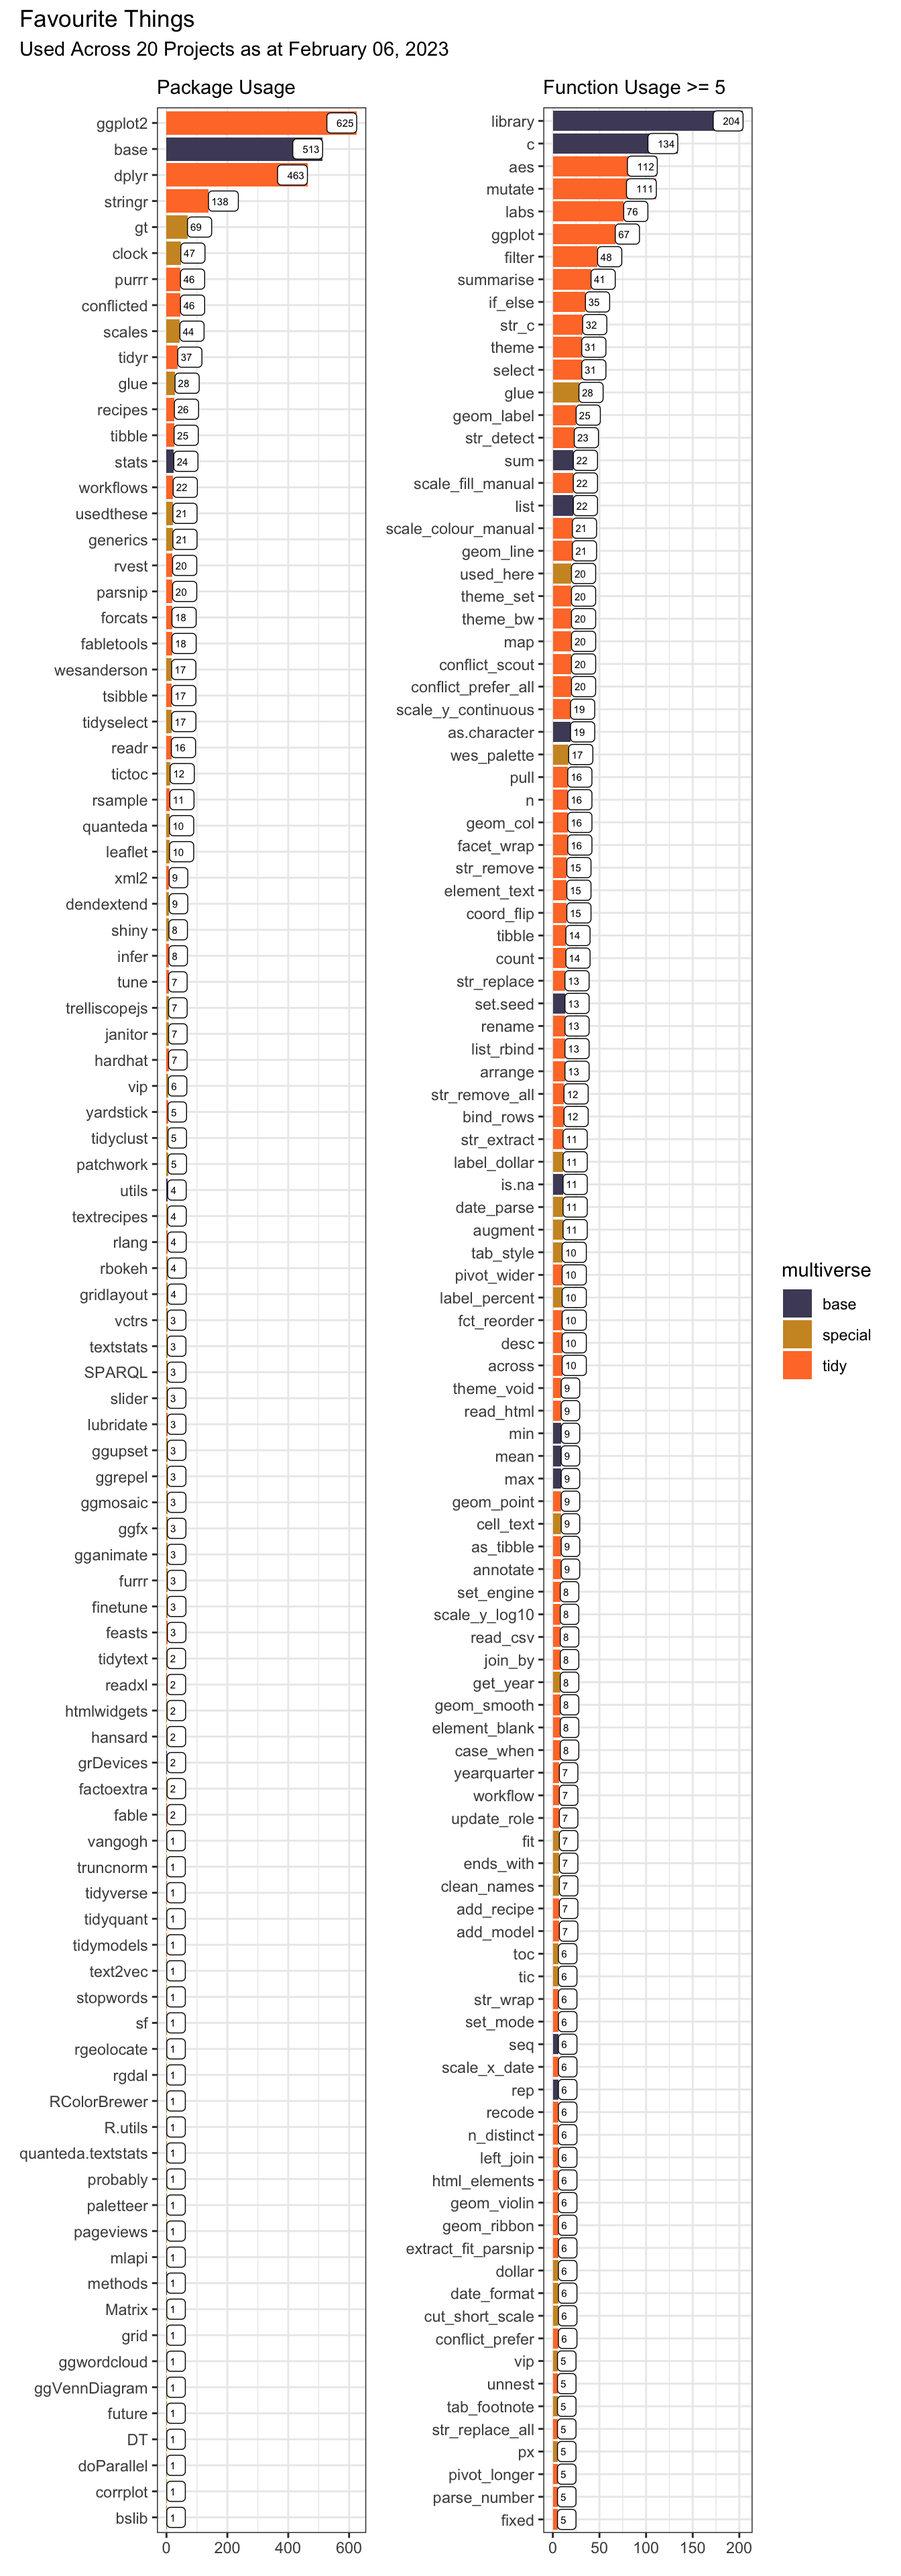
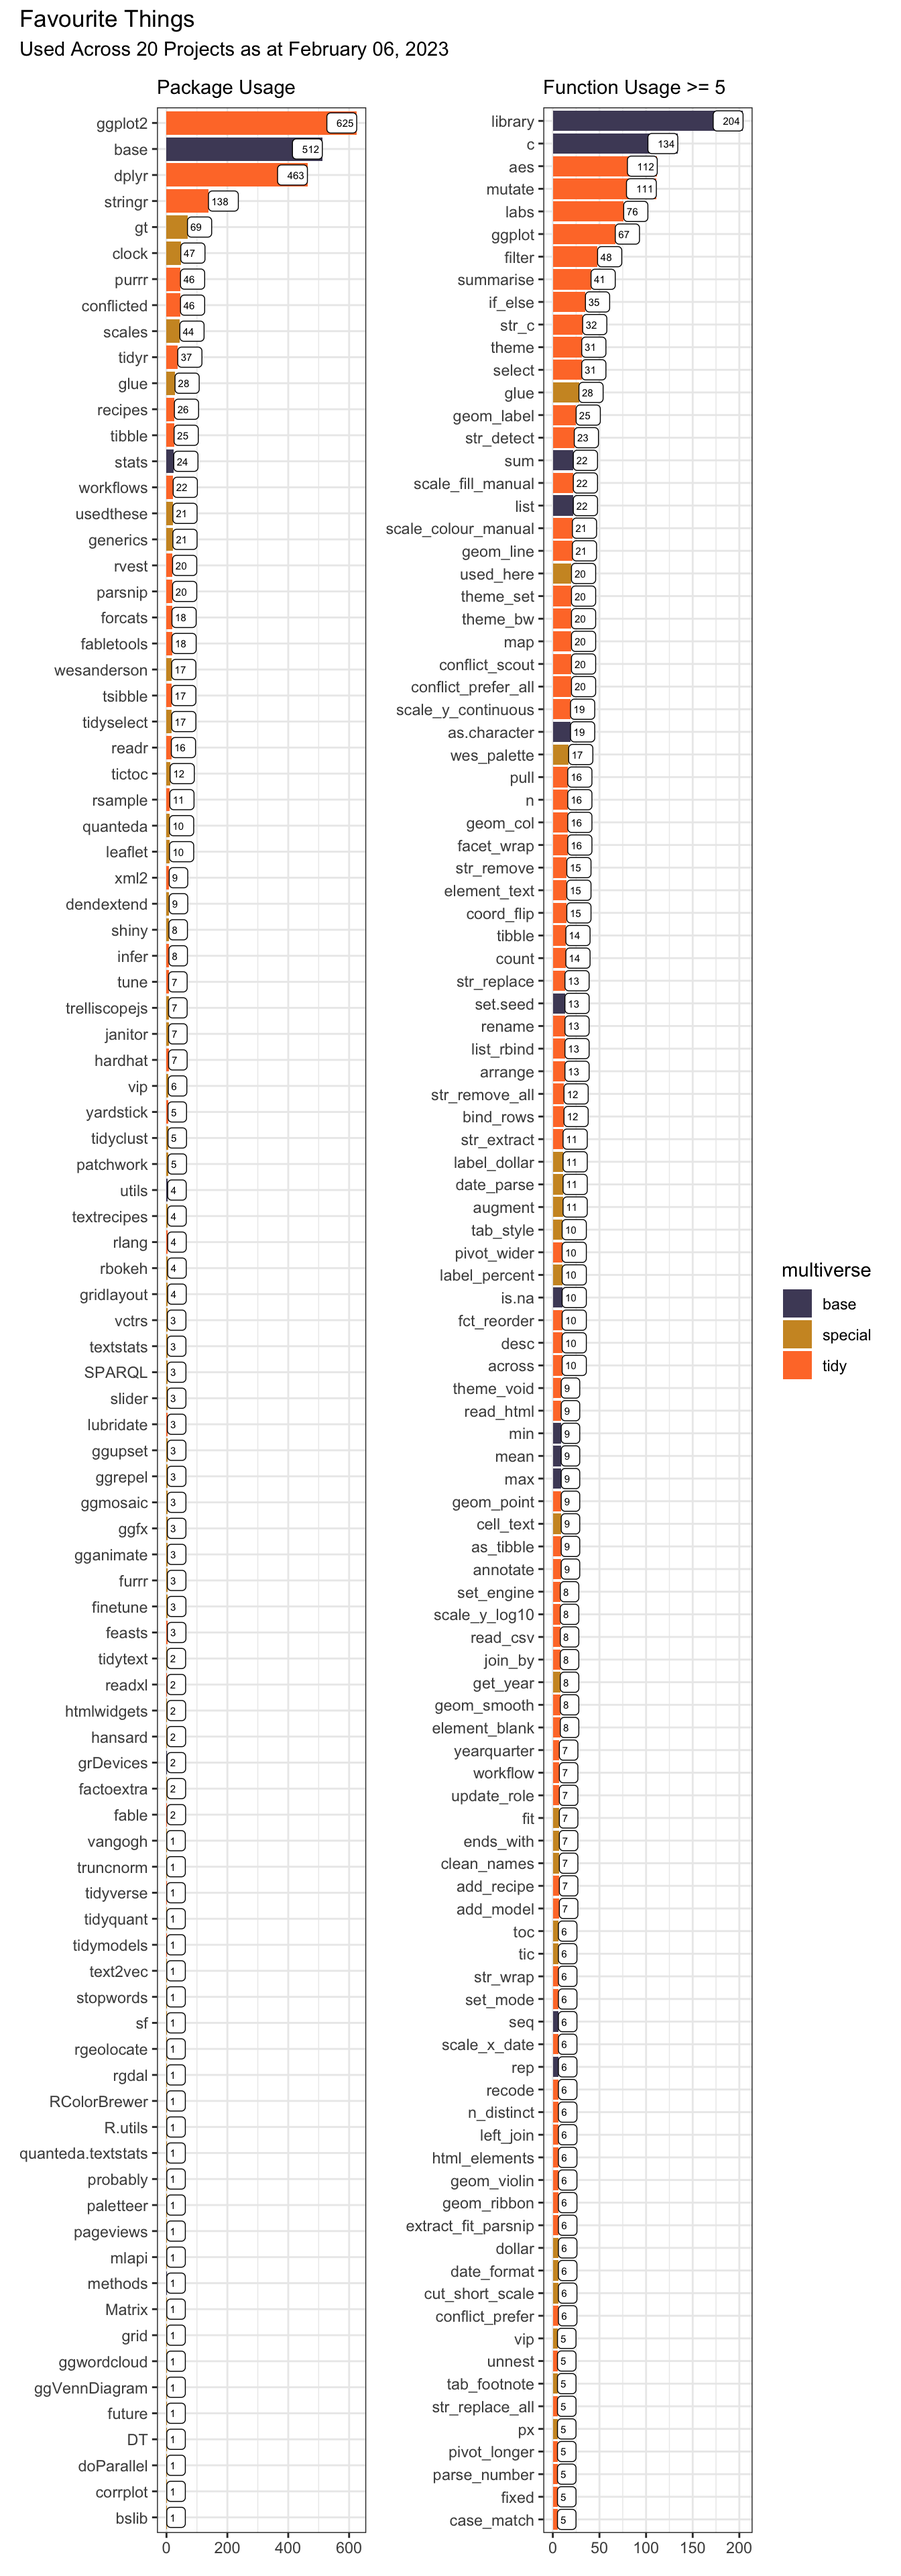
Use case_match from dplyr 1.1

Changed region(s): [[0.4688, 0.6875, 0.625, 1.0], [0.5, 0.4688, 0.625, 0.5]]

diff --git a/_site/project/box/index.html b/_site/project/box/index.html
@@ -2,7 +2,7 @@
 <html xmlns="http://www.w3.org/1999/xhtml" lang="en" xml:lang="en"><head>
 <meta http-equiv="Content-Type" content="text/html; charset=UTF-8">
 <meta charset="utf-8">
-<meta name="generator" content="quarto-1.3.146">
+<meta name="generator" content="quarto-1.3.158">
 <meta name="viewport" content="width=device-width, initial-scale=1.0, user-scalable=yes">
 <meta name="author" content="Carl Goodwin">
 <meta name="dcterms.date" content="2020-07-26">
@@ -900,7 +900,7 @@ window.document.addEventListener("DOMContentLoaded", function (event) {
 </script>
 </div> <!-- /content -->
 <footer class="footer"><div class="nav-footer">
-    <div class="nav-footer-left">Published with <a href="https://quarto.org/">Quarto</a> v1.3.146 | Hosted by <a href="https://www.netlify.com"><iconify-icon inline="" icon="simple-icons:netlify"></iconify-icon></a></div>   
+    <div class="nav-footer-left">Published with <a href="https://quarto.org/">Quarto</a> v1.3.158 | Hosted by <a href="https://www.netlify.com"><iconify-icon inline="" icon="simple-icons:netlify"></iconify-icon></a></div>   
     <div class="nav-footer-right">© 2023 <a href="../../about">Carl Goodwin</a> | <a href="https://www.quantumjitter.com/license">MIT License</a></div>
   </div>
 </footer>
